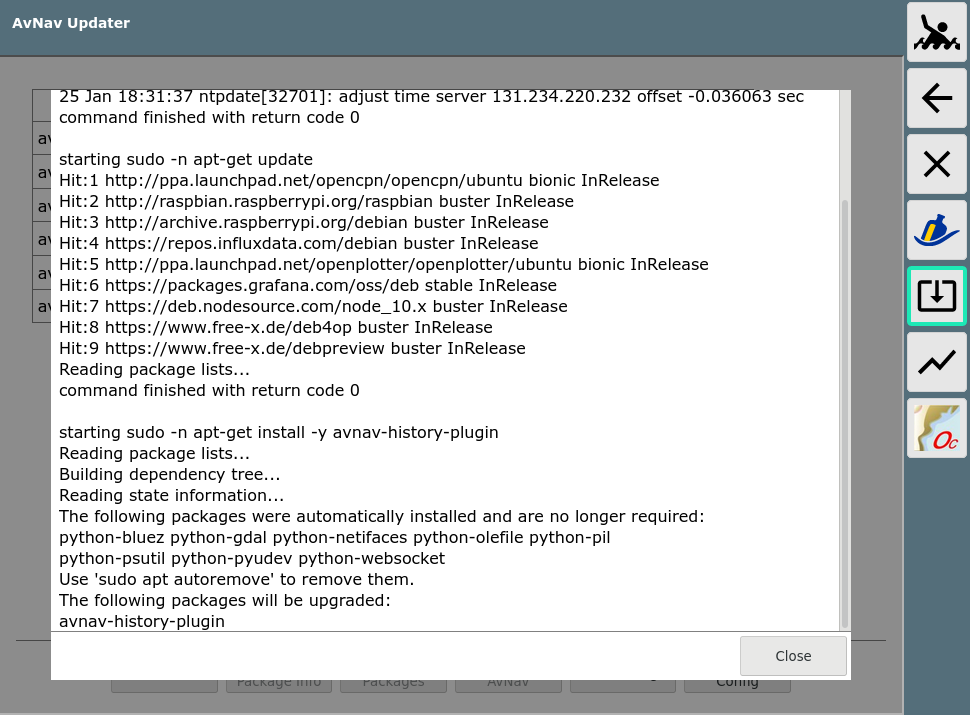
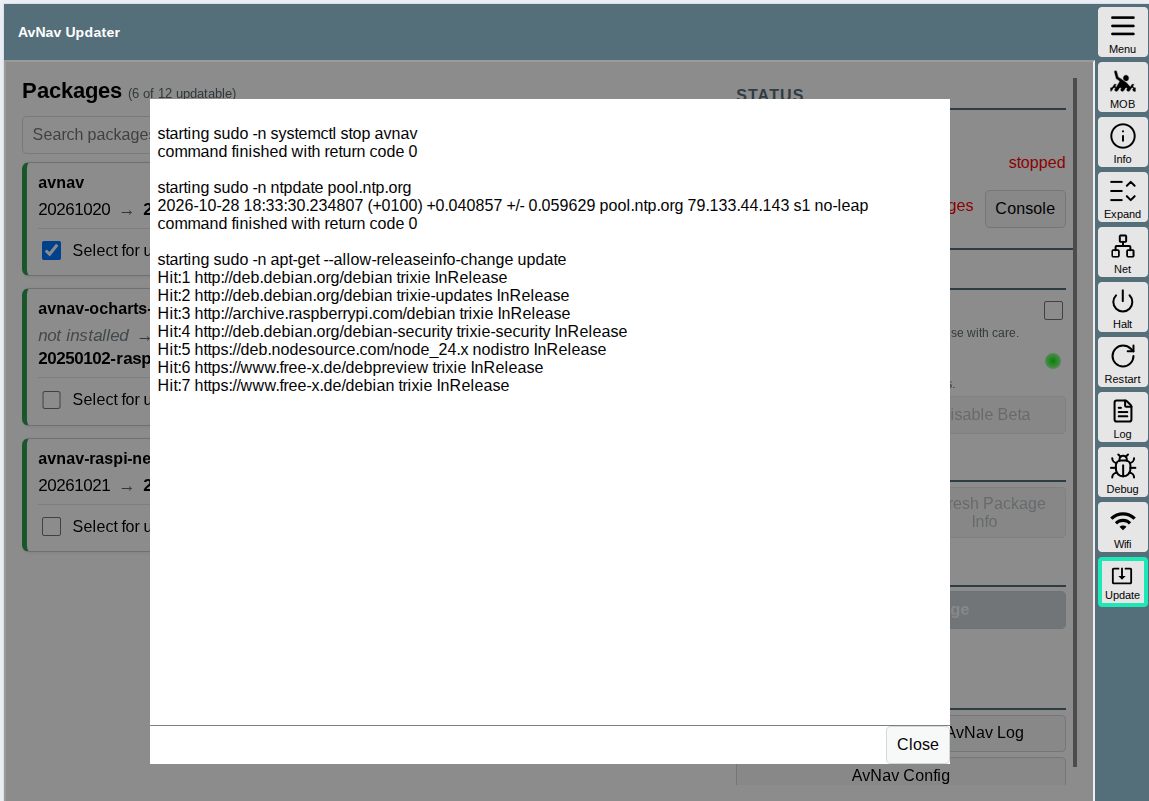
update to to new layout

Changed region(s): [[0.0, 0.0, 1.0, 1.0], [0.6495, 0.3385, 0.7113, 0.4]]

diff --git a/Readme.md b/Readme.md
@@ -1,5 +1,4 @@
-AvNav Updater Plugin
-====================
+# AvNav Updater Plugin
 
 This plugin provides a way to update the [AvNav](https://www.wellenvogel.net/software/avnav/docs/beschreibung.html?lang=en) software without access to the command line.
 
@@ -13,8 +12,8 @@ Where avnavhost is the same host that AvNav is running on. This can be helpfull 
 
 Beside the update function it allows to edit the AvNav config file and display and download the AvNav log file.
 
-Installation
-------------
+## Installation
+
 The plugin will come preinstalled on the [AvNav headless images](https://www.wellenvogel.net/software/avnav/docs/install.html?lang=en#h2:ImagewihoutattacheddisplayHeadless) in versions after 20210126.
 If it is not installed (you will miss the icon on the AvNav user page) you can install it by hand (using the command line just a last time...)
 ```
@@ -23,64 +22,71 @@ sudo apt-get install avnav-update-plugin
 sudo systemctl restart avnav
 ```
 
-Usage
------
+## Usage
+
 When you select the user app in AvNav (or directly open the url `http://<avnavhost>:8085/index.html`) in your browser you will get the view shown in the picture above.
-In the upper left the AvNav packages that are installed (or can be installed) on your system are listed, in the "candidate" column you will see newer versions that could be installed. The ceckboxes in the include column will give you a chance to decide which packages you would like to update.
+By default the package that can be updated are show at the left. You can filter them by name or change the view to show all packages or disabled packages.
 
-Below the table there is a display for the currently running action (if any), the status of the AvNav server and an information whether you have a working internet connection.
-In the bottom part you have the buttons that will trigger the actions.
+For each package the installed version and the candidate version for an update is listed.
 
-**Reload**
+Using the checkboxes you can decide which packages you want to update.
 
-Read the list of packages again.
-![Reload](doc/refresh.png)
+On the right side (on small screens below the package list) you will find various controls.
 
+### Status
 
-**Refresh Package Info**
+In the `Status` control you see the current internet connectivity status and - if an update action is running - an info about the running action.
 
-Run `apt-get update` to update the package informations. This will set the system time with ntpdate and will stop AvNav before.
+### Options
+In the `Options` control you can allow to downgrade packages. This can be helpful when e.g. changing from a beta version back to a release version.
 
-After fetching the information AvNav is started again and the packge table is updated.
+You can see if the [Beta](#beta) versions are enabled and on newer AvNav Images you can enable or disable them.
 
-**Update Packages**
+### Refresh
+`Reload` Read the list of packages again.
+
+`Refresh Package Info`: Run `apt-get update` to update the package informations. This will set the system time with ntpdate and will stop AvNav before. After fetching the information AvNav is started again and the package table is updated.
+
+### Action
+`Update 3 Packages`
 
 This will run the update of the selected packages. AvNav is stopped, the system time is set with `ntpdate`, `apt-get update` is run and for each for the selected packages an `apt-get install ...` is run.
 ![Update](doc/update.png)
 
-**Restart AvNav**
 
-The AvNav server is restarted.
+### Tools
 
-**AvNav Log**
+`Restart AvNav`: The AvNav server is restarted.
 
-The last app. 100000 bytes of the AvNav log file are shown.
-
-You can download the complete log from there.
+`AvNav Log`: The last app. 100000 bytes of the AvNav log file are shown. You can download the complete log from there.
 
 ![Log](doc/log.png)
 
-**AvNav Config**
-
-This allows you to edit the config file for AvNav.
+`AvNav Config`: This allows you to edit the config file for AvNav.
 
 **WARNING:**
-Be sure to carefully read the [documentation](https://www.wellenvogel.net/software/avnav/docs/hints/configfile.html?lang=en) - you can easily let AvNav fail to start.
+Be sure to carefully read the [documentation](https://www.wellenvogel.net/software/avnav/newDoc/latest/special/configfile.html?lang=en) - you can easily let AvNav fail to start.
 AvNav is trying to fall back to the last valid configuration if you change the config file in a way that would otherwise prevent a start up completely.
 The editor will at least detect a couple of basic XML syntax errors - but it is not able to check if you create a valid AvNav configuration.
 
 
 ![Config](doc/config.png)
 
-Within the editor you can dwonload the config file. When you are done and click save you will be prompted again before the config is written and AvNav is restarted.
+Within the editor you can download the config file. When you are done and click save you will be prompted again before the config is written and AvNav is restarted.
 
 ![Overwrite](doc/overwrite.png)
 
 Everytime you change the config a backup of the current config will be written to the directory where the AvNav config file is located.
 
+## Beta
 
-Technical Details
------------------
+On newer AvNav images (202610xx and newer) the updater is able to enable and disable the usage of beta packages (i.e. daily builds).
+This is done by renaming the the `/etc/apt/sources.lsit.d/extra-beta.lists`. For details refer to [issue #7](../../issues/7).
+
+**WARNING**: Installing beta packages can make AvNav unusable or having bugs. In this case disable the use of beta packages, tick `Allow downgrade` and install the latest release package.
+
+
+## Technical Details
 
 The plugin consists of 2 parts:
 
